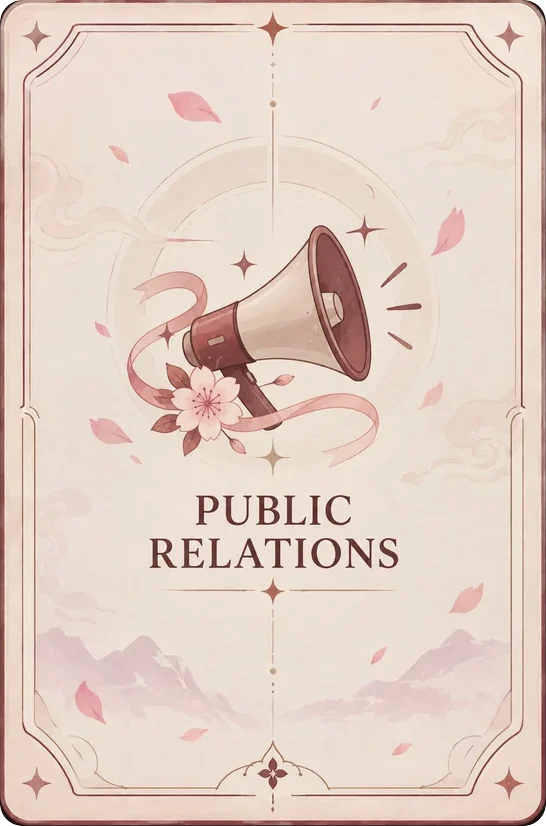
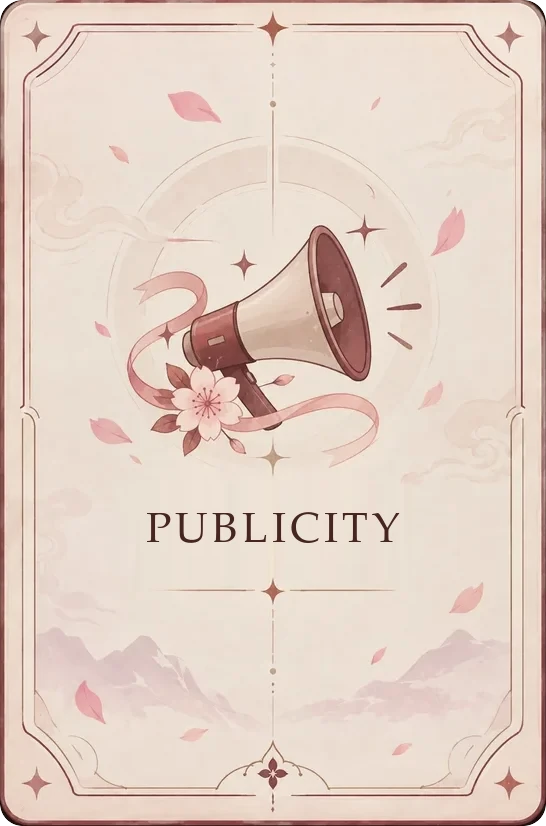
Team: add 8 member photos, rename Public Relations deck to Publicity
Photos for Aarti Kumari, Avash Lama, Divyangna Puri Goswami, Prince Kumar
Aarya, Suraksha Sharma, Bhavya Kuryawat, Raj and Ngawang Damchoe Sherpa.
The Publicity deck title and its cover card now read "Publicity".

Changed region(s): [[0.2491, 0.5751, 0.7473, 0.6961]]

diff --git a/frontend/src/test/events-team-data.test.ts b/frontend/src/test/events-team-data.test.ts
@@ -90,6 +90,27 @@ describe("team directory", () => {
     expect(teamPhotoFor("anuska-mandal")).not.toMatch(/jointsec-/);
   });
 
+  it("has photos for Aarti, Avash, Divyangna, Prince Aarya and Suraksha", () => {
+    const people = [...teamMembers, ...committeeMembers];
+    for (const [id, name] of [
+      ["aarti-kumari", "Aarti Kumari"],
+      ["avash-lama", "Avash Lama"],
+      ["divyangana", "Divyangna Puri Goswami"],
+      ["prince-arya", "Prince Kumar Aarya"],
+      ["suraksha-sharma", "Suraksha Sharma"],
+      ["bhavya-kuryawat", "Bhavya Kuryawat"],
+      ["raj", "Raj"],
+      ["ngawang-damchoe", "Ngawang Damchoe Sherpa"],
+    ] as const) {
+      expect(people.find((m) => m.id === id)?.name, id).toBe(name);
+      expect(teamPhotoFor(id), id).toMatch(new RegExp(`${id}`));
+    }
+  });
+
+  it("calls the publicity deck Publicity", () => {
+    expect(team.committees.find((d) => d.id === "publicity")?.title).toBe("Publicity");
+  });
+
   it("shows the Web Dev committee first, others in their usual order", () => {
     expect(team.committees[0]?.id).toBe("web-dev");
     expect(team.committees[1]?.id).toBe("sponsorship");

diff --git a/frontend/src/features/team/data/teamDecks.ts b/frontend/src/features/team/data/teamDecks.ts
@@ -31,7 +31,7 @@ const FIRST_COMMITTEE = "web-dev";
 
 const DECK_TITLES: Record<string, string> = {
   "web-dev": "Web Development",
-  publicity: "Public Relations",
+  publicity: "Publicity",
 };
 
 export function buildTeamDirectory(): TeamDirectory {
